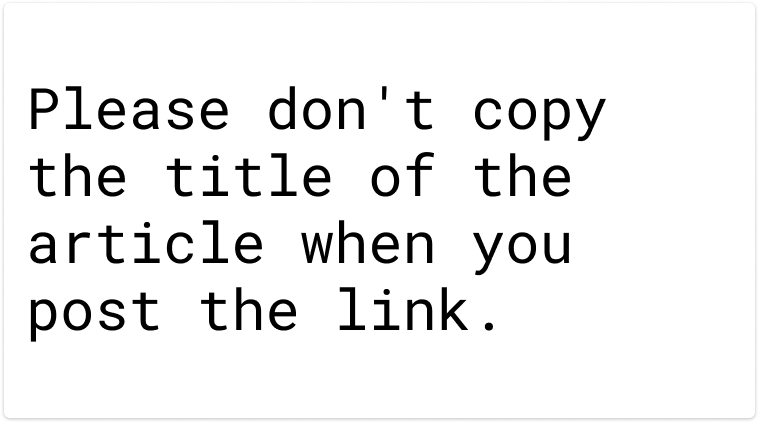
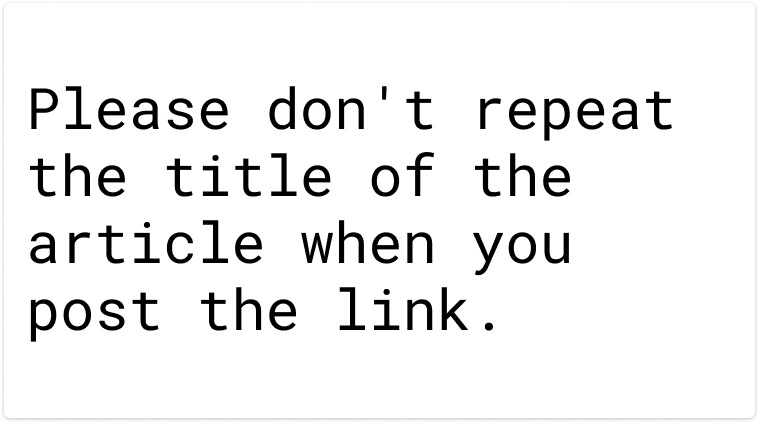
some improvements

Changed region(s): [[0.7576, 0.2151, 0.8788, 0.3381], [0.6061, 0.2151, 0.7273, 0.3073]]

diff --git a/index.html b/index.html
@@ -1,16 +1,16 @@
 <!DOCTYPE html>
 <html>
 	<head>
-		<title>Please don't copy the title of the article when you post the link</title>
+		<title>Please don't repeat the title of the article when you post the link</title>
 		<meta charset="UTF-8">
 		<meta name="viewport" content="width=device-width, initial-scale=1.0">
-		<meta property="og:title" content="Please don't copy the title of the article when you post the link" />
-		<meta property="og:description" content="Please don't copy the title of the article when you post the link. Because it's ain't fun to read this shit twice. Thank you and have a nice day." />
+		<meta property="og:title" content="Please don't repeat the title of the article when you post the link" />
+		<meta property="og:description" content="Please don't repeat the title of the article when you post the link. Because it's ain't fun to read it twice. Thank you and have a nice day." />
 		<meta property="og:type" content="article" />
 		
-		<meta name="image" content="https://pleasedont.vercel.app/img.png">
-		<meta property="og:image" content="https://pleasedont.vercel.app/img.png" />
-		<meta property="twitter:image" content="https://pleasedont.vercel.app/img.png" />
+		<meta name="image" content="https://pleasedont.vercel.app/meta.png">
+		<meta property="og:image" content="https://pleasedont.vercel.app/meta.png" />
+		<meta property="twitter:image" content="https://pleasedont.vercel.app/meta.png" />
 
 		<meta property="og:url" content="https://pleasedont.vercel.app/" />
 
@@ -19,7 +19,7 @@
 		<meta name="twitter:creator" content="@ykovzel" />
 		<meta name="twitter:site" content="@ykovzel" />
 		
-		<meta property="og:image:alt" content="Please don't copy the title of the article when you post the link">
+		<meta property="og:image:alt" content="Please don't repeat the title of the article when you post the link">
 		
 		<style>
 			html{
@@ -52,7 +52,7 @@
 	</head>
 	<body>
 		<img src="img.png">
-		<h1>Please don't copy the title of the article when you post the link</h1>
-		<p>Because it's ain't fun to read this shit twice. Thank you and have a nice day</p>
+		<h1>Please don't repeat the title of the article when you post the link</h1>
+		<p>Because it's ain't fun to read it twice. Thank you and have a nice day</p>
 	</body>
 </html>
